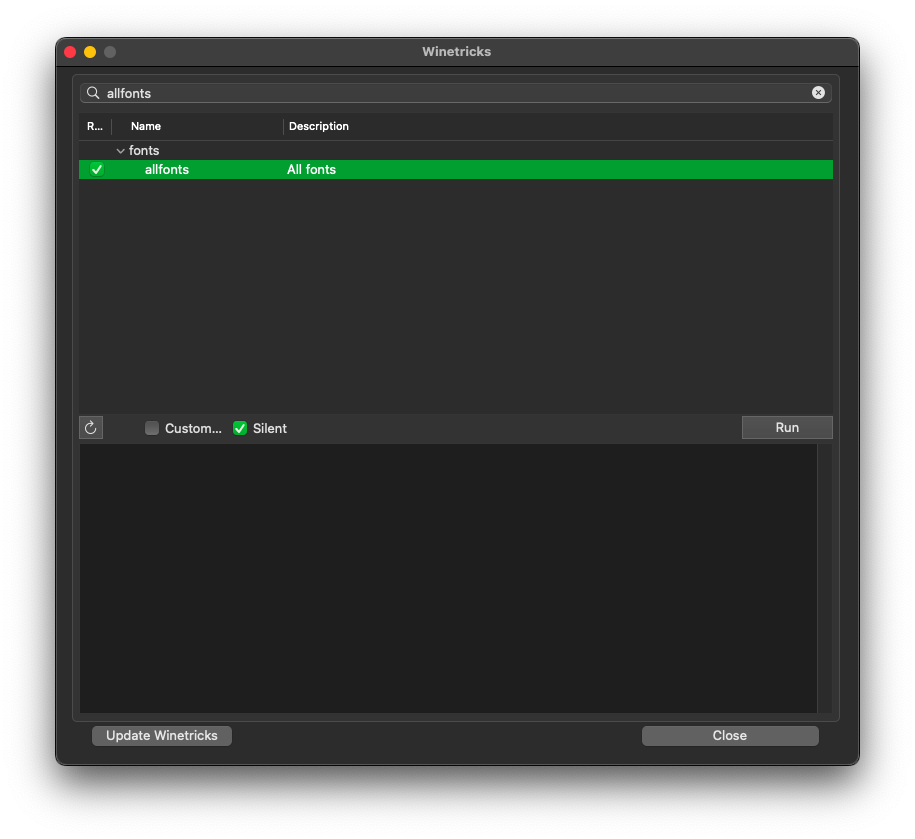
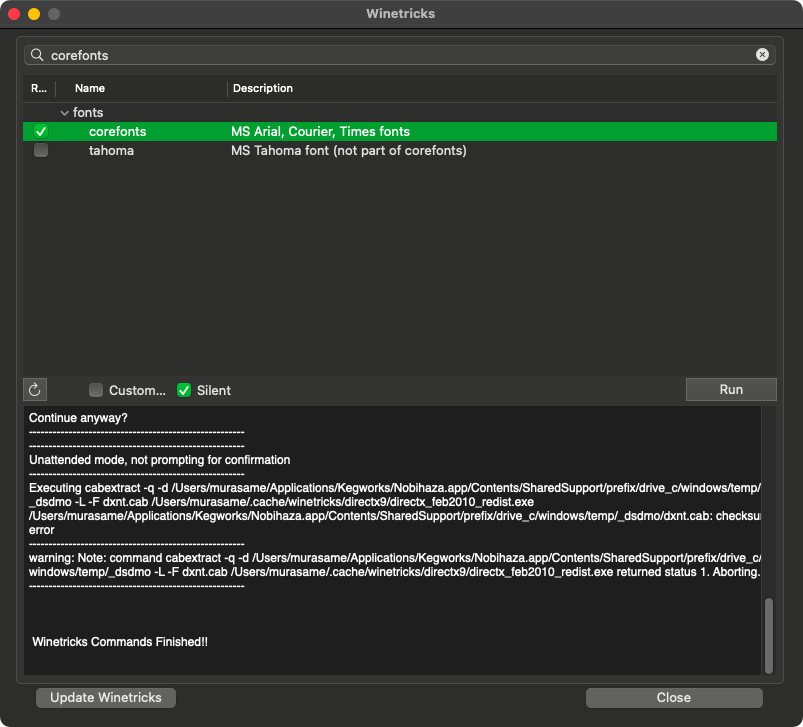
Add macOS MIDI troubleshooting error

diff --git a/Vietnamese/2. macOS/3. Sửa lỗi và mẹo.md b/Vietnamese/2. macOS/3. Sửa lỗi và mẹo.md
@@ -144,6 +144,47 @@ reg add "HKLM\Software\Microsoft\Windows NT\CurrentVersion\Fonts" /v "RM2000" /d
 
 * Nhấn Enter và bạn sẽ thấy dòng chữ `reg: 操作は正常に完了しました` (`reg: The operation completed successfully`).
 
+#### Không thể phát được nhạc MIDI
+
+Đa số game Nobihaza được làm bằng RPG Maker VX Ace trở xuống sẽ sử dụng MIDI. Nếu bạn thấy trong quá trình chơi mà có một số bài nhạc không thể phát được, nó có thể là nhạc MIDI và máy bạn đang bị lỗi.
+
+* Xem lại mục [Điều kiện cơ bản#Cài đặt thư viện cần thiết cho Wine](1.%20%C4%90i%E1%BB%81u%20ki%E1%BB%87n%20c%C6%A1%20b%E1%BA%A3n.md#c%C3%A0i-%C4%91%E1%BA%B7t-th%C6%B0-vi%E1%BB%87n-c%E1%BA%A7n-thi%E1%BA%BFt-cho-wine).
+
+* Một số máy cũng có thể sẽ cần FluidSynth để có thể phát nhạc MIDI:
+
+##### Cài đặt FluidSynth
+
+* Mở ứng dụng **Terminal** lên và nhập dòng lệnh sau, sau đó nhấn Enter và nhập mật khẩu macOS của bạn.
+
+```sh
+sudo port install fluidsynth
+```
+
+* Nhập `Y` và nhấn `Enter` khi cửa sổ Terminal hiện ra chữ Continue.
+
+![9](images/image-8.png)
+
+* Quá trình cài đặt sẽ mất khá nhiều thời gian nên bạn hãy cố gắng chờ đợi, cho đến khi hiện dòng chữ `No broken files found` như ảnh dưới.
+
+![10](images/image-9.png)
+
+* Bạn cần tải thêm cả [soundfont được sử dụng trên Windows](https://musical-artifacts.com/artifacts/713/gm.sf2) để có trải nghiệm nghe giống với Windows nhất. Lưu ý đường dẫn của tệp này sau khi tải xuống, và bạn sẽ cần sử dụng nó về sau này.
+
+##### Khởi động FluidSynth
+
+* Nhập dòng lệnh sau trong cửa sổ Terminal:
+
+```sh
+fluidsynth -a coreaudio -m coremidi ~/Downloads/gm.sf2
+```
+
+Thay đường dẫn `~/Downloads/gm.sf2` của bạn thành đường dẫn tệp `gm.sf2` mà bạn đã tải xuống trước đó.
+
+* Nhấn Enter để chạy dòng lệnh và khởi động lại game.
+
+> [!IMPORTANT]
+> Bạn cần để FluidSynth và cửa sổ Terminal chạy trong nền trong quá trình chơi game, và thực hiện lệnh trên mỗi lần muốn khởi động game.
+
 ## RPG Maker 2000/2003 (`RPG_RT.exe`)
 
 ### `XXXX 乗り物 は開けません` (Không thể mở file XXXX) / `???????????????????` (một đống dấu hỏi chấm)

diff --git a/Vietnamese/2. macOS/1. Điều kiện cơ bản.md b/Vietnamese/2. macOS/1. Điều kiện cơ bản.md
@@ -106,26 +106,6 @@ xcode-select --install
 
 ![7](images/image-6.png)
 
-### FluidSynth
-
-Bạn sẽ cần thêm cả công cụ này để game có thể phát nhạc dưới dạng MIDI (đa số các game RPG Maker 2000/2003 và XP/VX/VX Ace đều sẽ dùng nhạc định dạng này!). Bạn có thể bỏ qua nếu như không cần nghe nhạc, hoặc chỉ chơi game dựa trên RPG Maker MV/MZ.
-
-* Mở ứng dụng **Terminal** lên và nhập dòng lệnh sau, sau đó nhấn Enter và nhập mật khẩu macOS của bạn.
-
-```sh
-sudo port install fluidsynth
-```
-
-* Nhập `Y` và nhấn `Enter` khi cửa sổ Terminal hiện ra chữ Continue.
-
-![9](images/image-8.png)
-
-* Quá trình cài đặt sẽ mất khá nhiều thời gian nên bạn hãy cố gắng chờ đợi, cho đến khi hiện dòng chữ `No broken files found` như ảnh dưới.
-
-![10](images/image-9.png)
-
-* Bạn cần tải thêm cả [soundfont được sử dụng trên Windows](https://musical-artifacts.com/artifacts/713/gm.sf2) để có trải nghiệm nghe giống với Windows nhất. Lưu ý đường dẫn của tệp này sau khi tải xuống, và bạn sẽ cần sử dụng nó về sau này.
-
 ## Wine và Kegworks
 
 > [!NOTE]
@@ -192,13 +172,13 @@ Một số game sẽ bị lỗi font/không thể hoạt động đúng được
 
 ![20](images/image-19.png)
 
-* Sau đó nhập `allfonts` vào thanh tìm kiếm, nhấn vào nút mũi tên bên cạnh trái chữ `fonts` và tích vào mục `allfonts`.
+* Sau đó nhập `corefonts` vào thanh tìm kiếm, nhấn vào nút mũi tên bên cạnh trái chữ `fonts` và tích vào mục `corefonts`.
 
 ![21](images/image-20.png)
 
-* Nhấn vào nút **Run** để bắt đầu cài đặt, sau đó nhấn **Yes** để xác nhận.
+* Làm tương tự với `dsound`, `directmusic`, `dmsynth`, `gmdls` và `dsdmo`. Sau đó nhấn vào nút **Run** để bắt đầu cài đặt, và nhấn **Yes** để xác nhận.
 
-![22](images/image-21.png)
+![alt text](images/image-21.png)
 
 * Đợi cho quá trình cài đặt hoàn tất. Nhấn nút Close để tắt Winetricks.
 
